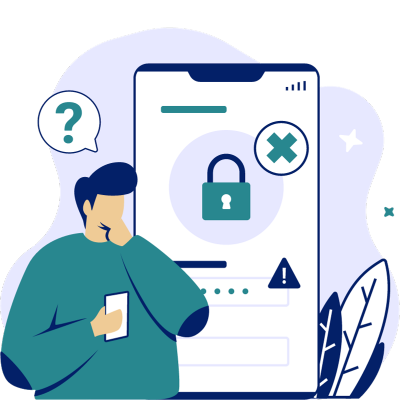
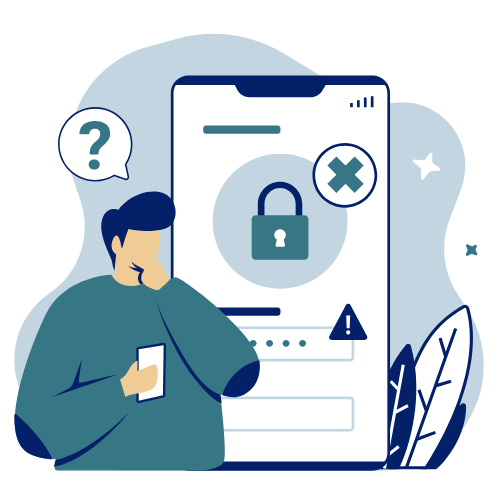
Finalized Forgot Password Overlay

diff --git a/assets/css/loginStyle.css b/assets/css/loginStyle.css
@@ -208,7 +208,14 @@ form {
 }
 
 /*------------------------------------------------------------------- */
-
+.modal-content, 
+.forgot-title, 
+.forgot-text, 
+.static-label, 
+.static-input, 
+.submit-btn{
+    font-family: 'Outfit', sans-serif;
+}
 
 /* General Modal Styling */
 .modal {
@@ -257,13 +264,12 @@ form {
     left: 16px;
 }
 
-/* Close Button - Thicker */
+
 .close {
     position: absolute;
     top: 12px;
     right: 50px;
     font-size: 22px;
-    font-weight: bold;
     cursor: pointer;
     color: #000;
 }
@@ -280,24 +286,21 @@ form {
 .forgot-form-container {
     display: flex;
     flex-direction: column;
-    align-items: flex-start;
-    flex: 1;
-    padding-right: 20px;
+    align-items: center; /* Centers children horizontally */
 }
 
 /* Title */
 .forgot-title {
     font-size: 22px;
     font-weight: bold;
-    margin-top: 40px;
-    margin-bottom: 5px;
+    margin-bottom: 2px;
 }
 
 /* Description Text */
 .forgot-text {
     color: #6C757D;
     font-size: 16px;
-    margin-bottom: 15px;
+    margin-bottom: 20px;
 }
 
 /* Input Group */
@@ -305,19 +308,19 @@ form {
     position: relative;
     width: 100%;
     max-width: 400px;
-    margin-bottom: 15px;
+    margin-top: 10px;
+    margin-bottom: 25px;
 }
 
 /* Static Label - Always Positioned */
 .static-label {
     position: absolute;
     left: 14px;
-    top: -5px;
+    top: -10px;
     font-size: 14px;
-    color: black;
+    color: #4F4F4F;
     background: white;
     padding: 0 5px;
-    font-weight: bold;
 }
 
 /* Static Input - No Animation */
@@ -336,6 +339,7 @@ form {
 /* Submit Button - White Background with Gray Border */
 .submit-btn {
     width: 100%;
+    margin-bottom: 8px; 
     padding: 10px;
     background: white;
     color: #3C4B5F; /* Dark text color */
@@ -345,6 +349,7 @@ form {
     cursor: pointer;
     text-align: center;
     transition: all 0.3s ease;
+    display: block;
 }
 
 /* Hover Effect */
@@ -355,9 +360,10 @@ form {
 
 /* Back to Login */
 .back-link {
-    margin-top: 10px;
+    display: block;
+    text-align: center; /* Centers the text */
     font-size: 14px;
-    color: #377684;
+    color: #3C4B5F;
     text-decoration: none;
 }
 
@@ -374,7 +380,7 @@ form {
 }
 
 .forgot-img {
-    max-width: 150px;
+    max-width: 250px;
     height: auto;
     flex-shrink: 0;
 }

diff --git a/login.html b/login.html
@@ -1,12 +1,11 @@
-<!DOCTYPE html>
-<html lang="en">
+<html>
 <head>
-    <meta charset="UTF-8">
-    <meta name="viewport" content="width=device-width, initial-scale=1.0">
     <title>Login Page</title>
     <link rel="stylesheet" href="assets/css/loginStyle.css">
     <link rel="stylesheet" href="assets/css/styleguide.css">
     <link rel="stylesheet" href="https://cdnjs.cloudflare.com/ajax/libs/font-awesome/6.4.2/css/all.min.css">
+    <link href="https://fonts.googleapis.com/css2?family=Outfit:wght@300;400;600;700&display=swap" rel="stylesheet">
+
 </head>
 <body>
     <div class="container">
